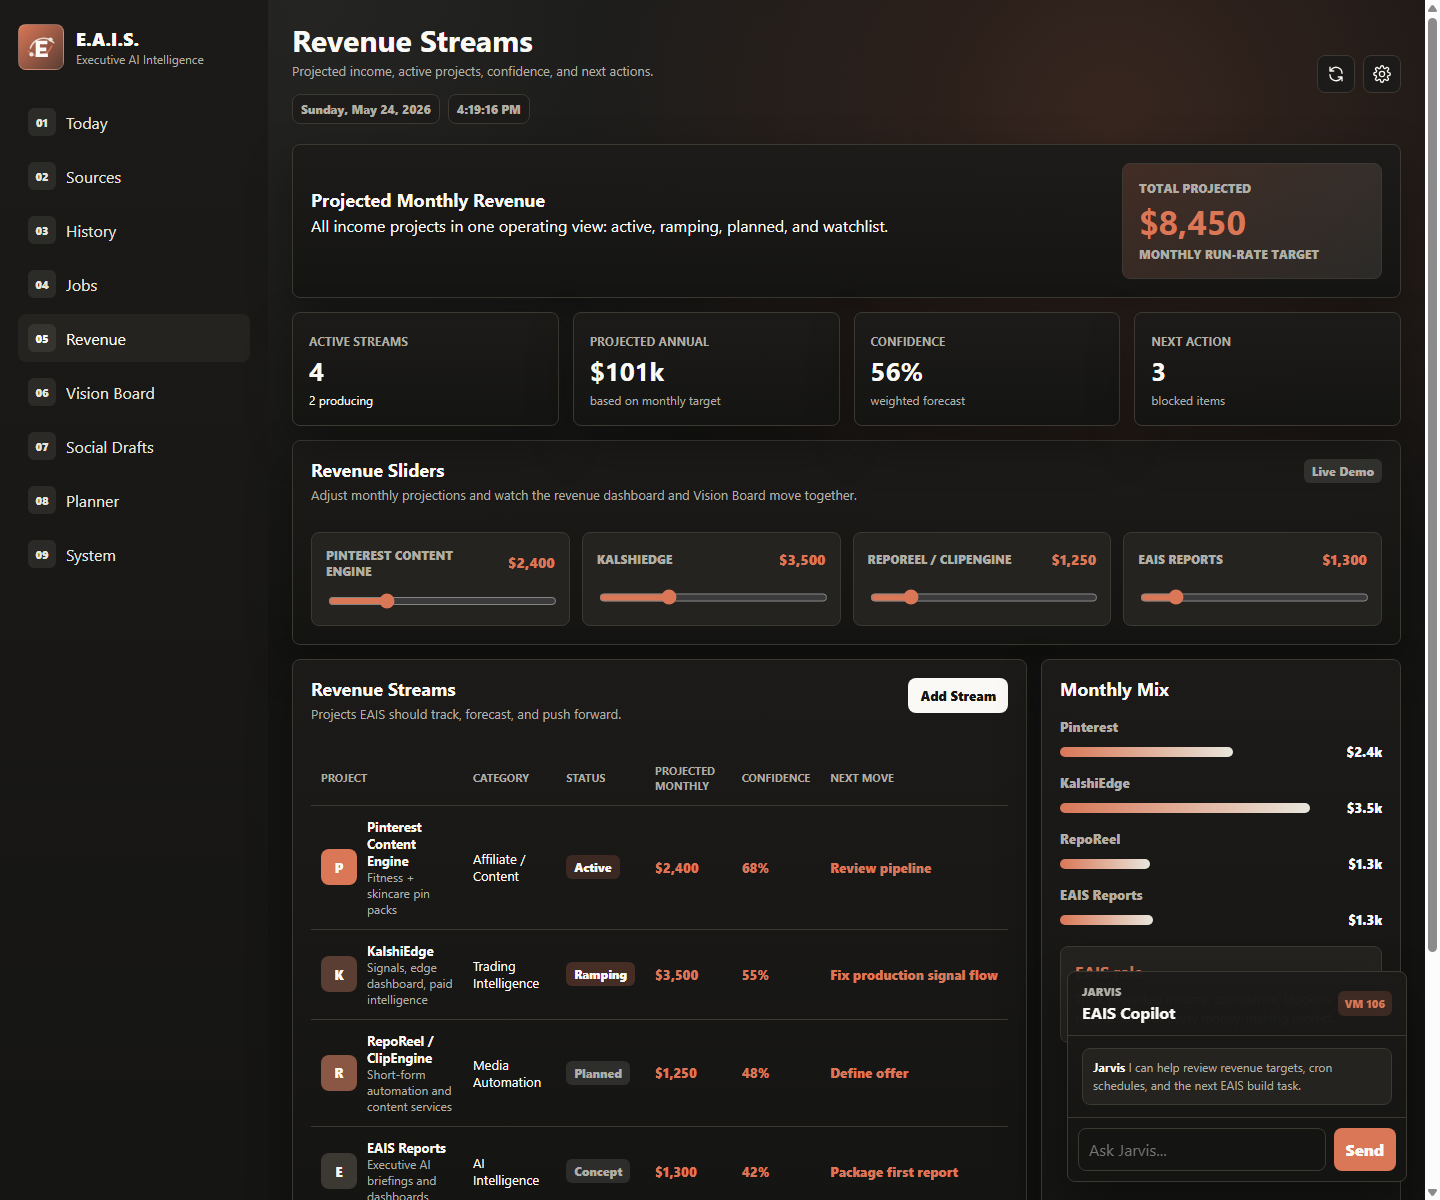
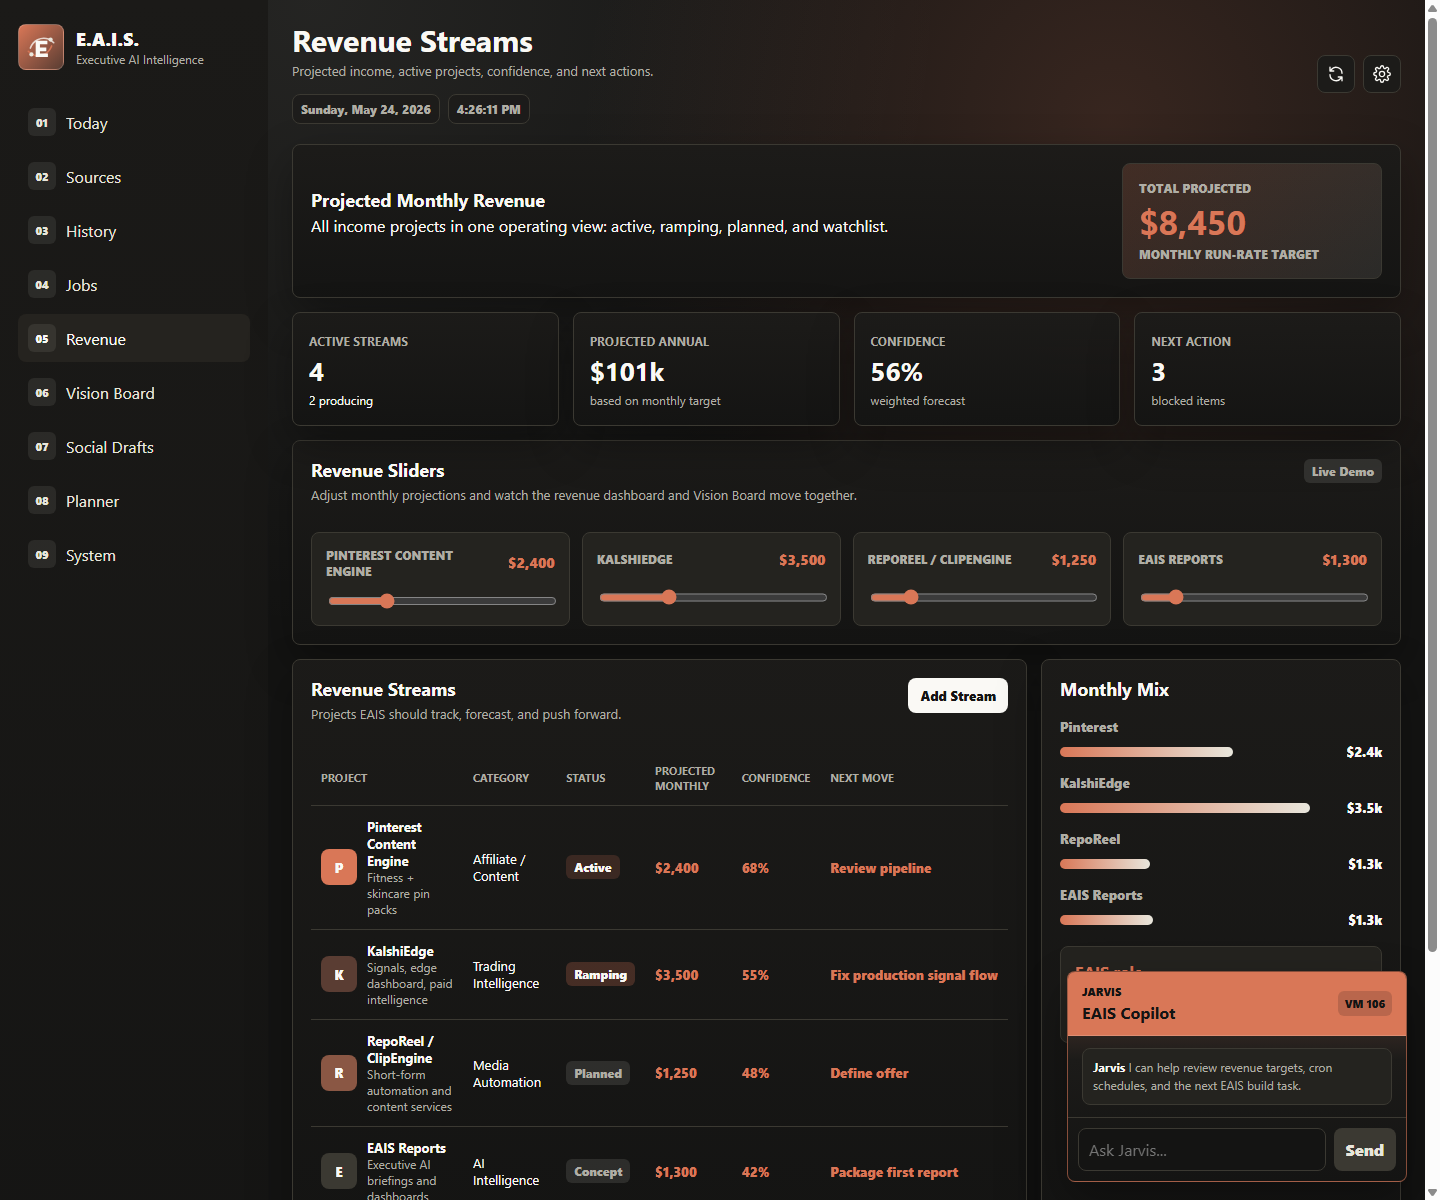
Adjust Jarvis chat colors

Changed region(s): [[0.7188, 0.8017, 1.0, 0.8633], [0.9062, 0.925, 0.9688, 0.9867]]

diff --git a/mockups/eais-dashboard/styles.css b/mockups/eais-dashboard/styles.css
@@ -1410,9 +1410,9 @@ h3 {
   display: grid;
   width: min(340px, calc(100vw - 36px));
   overflow: hidden;
-  border: 1px solid var(--line);
+  border: 1px solid rgba(var(--accent-rgb), 0.58);
   border-radius: 8px;
-  background: linear-gradient(180deg, rgba(var(--panel-rgb), 0.98), rgba(var(--bg-rgb), 0.98));
+  background: linear-gradient(180deg, var(--accent-deep), var(--panel) 42%, var(--bg));
   box-shadow: var(--shadow);
 }
 
@@ -1421,14 +1421,15 @@ h3 {
   align-items: center;
   justify-content: space-between;
   gap: 12px;
-  border-bottom: 1px solid var(--line);
+  border-bottom: 1px solid rgba(var(--ink-rgb), 0.18);
+  background: var(--accent);
   padding: 12px 14px;
 }
 
 .jarvis-header span,
 .jarvis-header em {
   display: block;
-  color: var(--muted);
+  color: var(--bg);
   font-size: 11px;
   font-style: normal;
   font-weight: 900;
@@ -1438,12 +1439,13 @@ h3 {
 .jarvis-header strong {
   display: block;
   margin-top: 3px;
+  color: var(--bg);
 }
 
 .jarvis-header em {
   border-radius: 6px;
-  background: rgba(var(--accent-rgb), 0.18);
-  color: var(--accent);
+  background: rgba(var(--bg-rgb), 0.16);
+  color: var(--bg);
   padding: 5px 7px;
 }
 
@@ -1490,11 +1492,16 @@ h3 {
 .jarvis-form button {
   border: 0;
   border-radius: 8px;
-  background: var(--accent);
-  color: var(--ink);
+  background: var(--line);
+  color: var(--subtle);
   cursor: pointer;
   font-weight: 900;
   padding: 10px 12px;
+}
+
+.jarvis-form button:hover {
+  background: var(--muted);
+  color: var(--bg);
 }
 
 @media (max-width: 980px) {